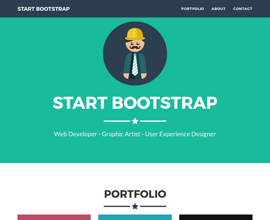
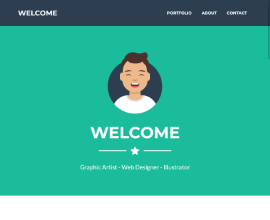
Freelancer Updates

diff --git a/_themes/freelancer.md b/_themes/freelancer.md
@@ -5,23 +5,27 @@ categories:
   - single-page
   - portfolio
 description: Show everyone what you can do.
-link: https://github.com/mayamcdougall/startbootstrap-freelancer-pico
+link: https://github.com/mayamcdougall/freelancer-pico
 images:
   - themes/images/fullsize/freelancer.png
-  - themes/images/fullsize/freelancer-portfolio.png
-  - themes/images/fullsize/freelancer-modal.png
+  - themes/images/fullsize/freelancer-2.png
+  - themes/images/fullsize/freelancer-3.png
+  - themes/images/fullsize/freelancer-4.png
+  - themes/images/fullsize/freelancer-5.png
 info:
   Ported By: "[Maya McDougall](http://mayamcdougall.me)"
-  Original By: "[Start Bootstrap](https://startbootstrap.com/template-overviews/freelancer/)"
-  License: "[The MIT License](https://github.com/mayamcdougall/startbootstrap-freelancer-pico/blob/master/LICENSE)"
+  Original By: "[Start Bootstrap](https://startbootstrap.com/theme/freelancer)"
+  License: "[The MIT License](https://github.com/mayamcdougall/freelancer-pico/blob/main/LICENSE)"
 ---
 
-Freelancer is a one page Bootstrap-based portfolio theme for freelancers.
+Freelancer is a one page portfolio theme that features several content sections, a responsive portfolio grid, modal windows, and a contact form/buttons.
 
 Features:
 
-* Fixed top navigation that collapses on scroll.
-* Responsive portfolio grid with hover effects.
-* Full screen modal windows for featuring project details.
-* Customizable Social buttons using Font Awesome icons.
-* Optional contact form with validation. (Requires additional setup).
+- A responsive portfolio gallery supporting high-resolution thumbnails and header images.
+- Elegant popup modal dialogs with details of each portfolio item.
+- Customizable "action" buttons for your About section, Gallery Items, and standalone pages.
+- Limited support for separate, standalone pages giving you extra versatility.
+- Choose between contact buttons and a contact form (extra setup required). Or have both!
+- Social icons for all your networking needs.
+- Easily configurable entirely in metadata.  Never change a line of code!
